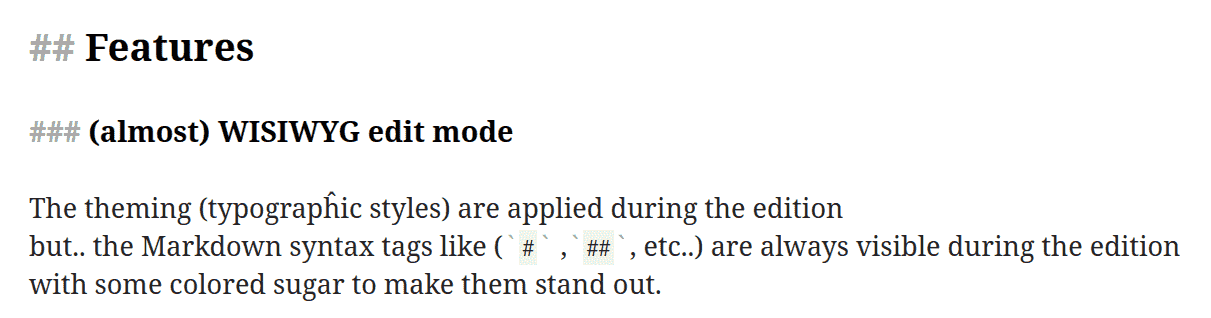
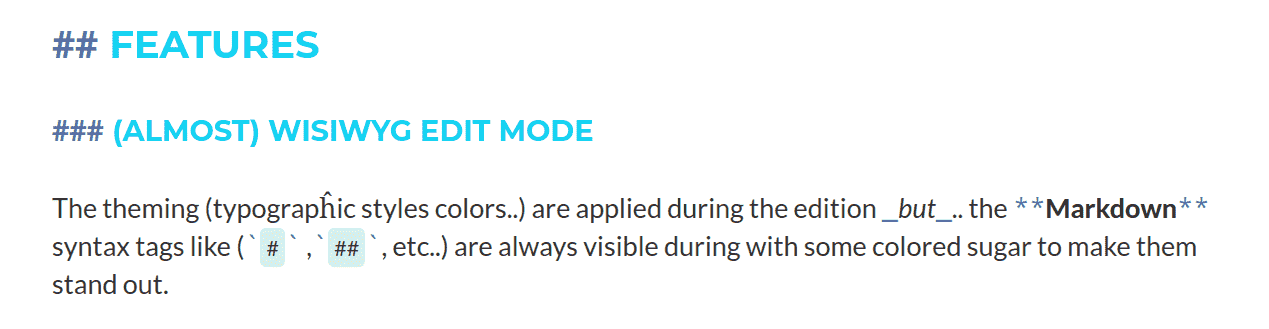
Updated the RENDERING screenshot

diff --git a/README.md b/README.md
@@ -10,8 +10,7 @@
 
 ### (almost) WISIWYG edit mode
 
-The theming (typograpĥic styles) are applied during the edition
-but.. the Markdown syntax tags like (`#` ,`##`, etc..) are always visible during the edition with some colored sugar to make them stand out.
+The theming (typograpĥic styles colors..) are applied during the edition _but_.. the **Markdown** syntax tags like (`#` ,`##`, etc..) are always visible during with some colored sugar to make them stand out.
 
 ![Rendering Screenshot](/public/rendering-screenshot.png)
 
@@ -21,7 +20,7 @@ List of preloaded-plugins:
 
 - GFM (Github Flavored Markdown)
 - Line breaks (force line breaks with single newline `\n`)
-- Support for inline and block `$LaTeX$` expressions
+- Support for inline and block `$\LaTeX$` expressions
 
 ### Themes
 
